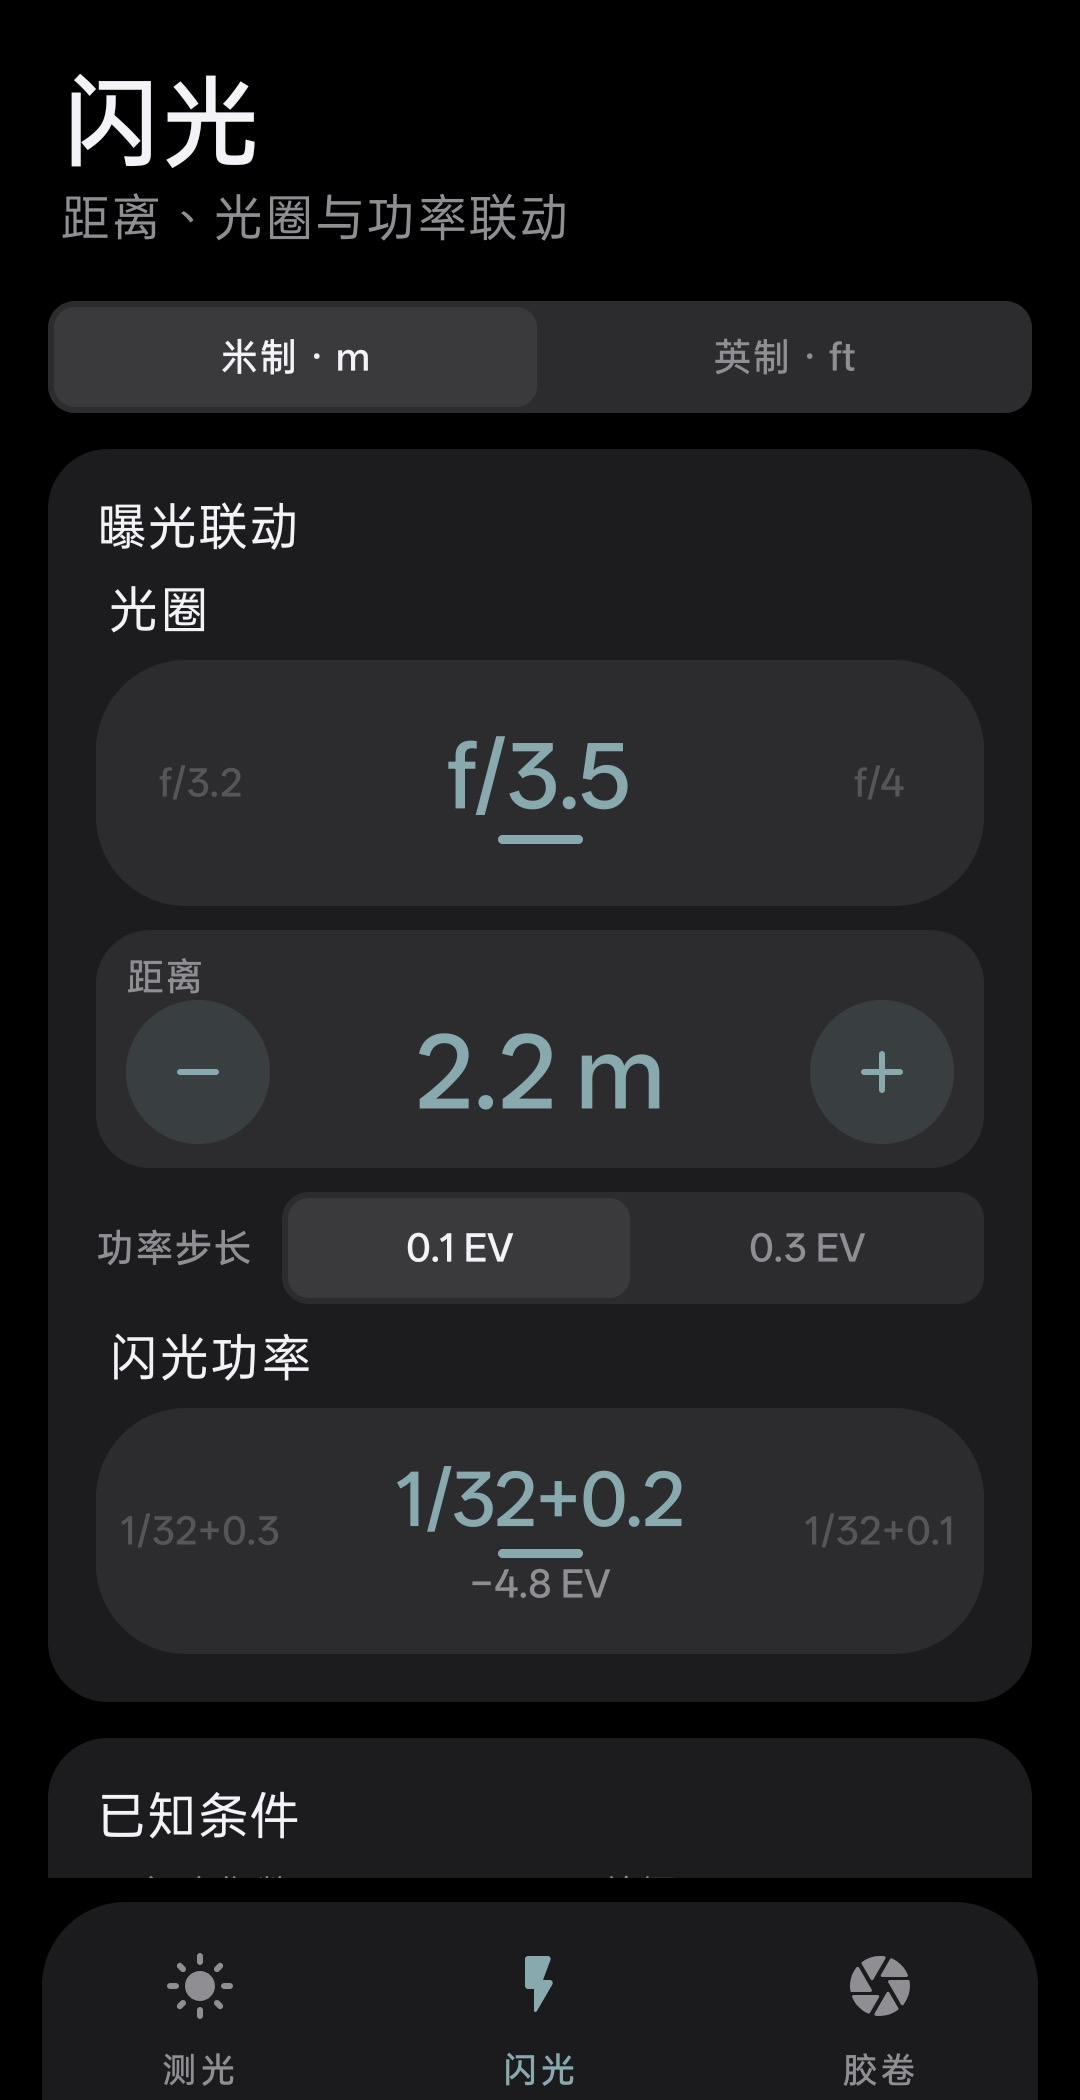
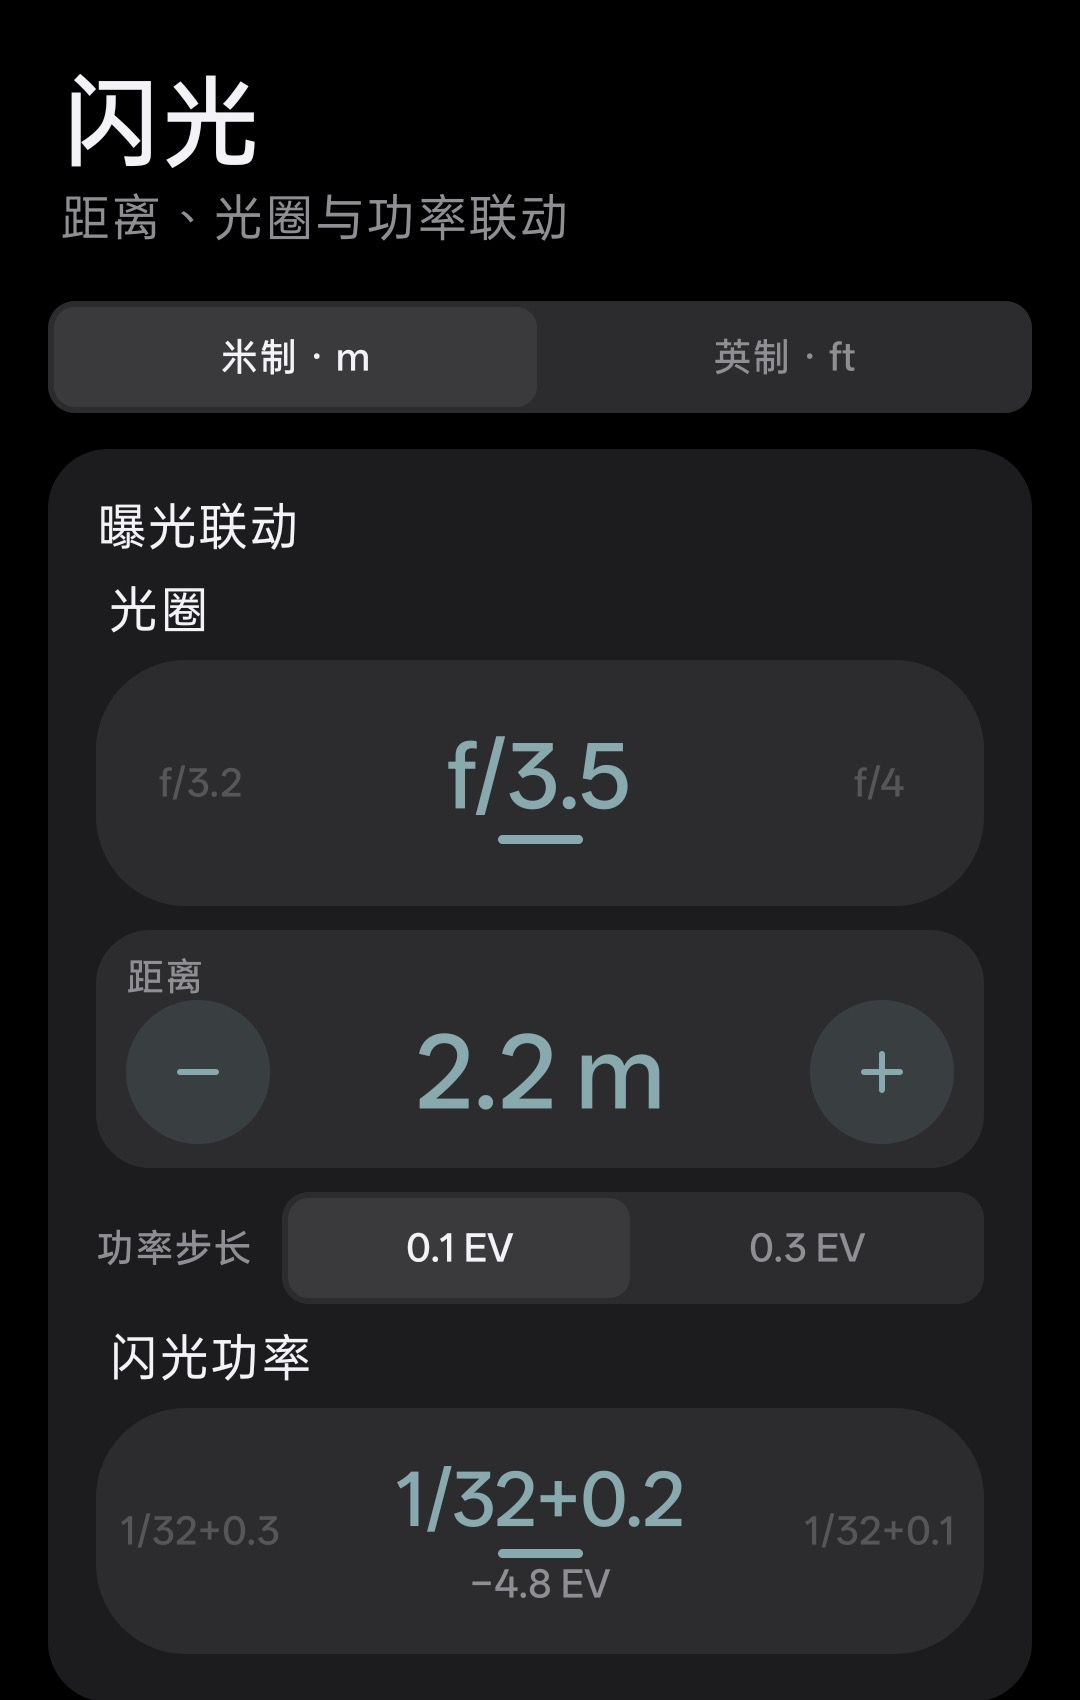
Enlarge upright core workflow screens

diff --git a/styles.css b/styles.css
@@ -73,8 +73,8 @@ h1 em, h2 span, .download-section em { font-style: normal; color: var(--accent);
 .stage-corner-br { right: 18px; bottom: 18px; border-width: 0 2px 2px 0; }
 .stage-label { color: #b8beb3; font-size: 9px; }
 .stage-label span { color: var(--accent); margin-left: 14px; }
-.meter-console-real { position: absolute; z-index: 1; top: 67px; left: 27%; width: 43%; padding: 8px; background: #0d1110; box-shadow: 12px 15px 0 rgba(0, 0, 0, .28); transform: rotate(-3deg); transition: transform .3s ease, box-shadow .3s ease; }
-.meter-console-real:hover { transform: rotate(0deg) translateY(-8px); box-shadow: 15px 20px 0 rgba(0, 0, 0, .24); }
+.meter-console-real { position: absolute; z-index: 1; top: 67px; left: 27%; width: 43%; padding: 8px; background: #0d1110; box-shadow: 12px 15px 0 rgba(0, 0, 0, .28); transition: transform .3s ease, box-shadow .3s ease; }
+.meter-console-real:hover { transform: translateY(-8px); box-shadow: 15px 20px 0 rgba(0, 0, 0, .24); }
 .meter-console-real img { display: block; width: 100%; height: auto; }
 .meter-console-real span { position: absolute; right: -14px; bottom: -25px; color: var(--accent); font: 8px var(--display); letter-spacing: .08em; white-space: nowrap; }
 .console-top, .display-top, .display-result, .console-controls { display: flex; align-items: center; justify-content: space-between; }
@@ -129,8 +129,8 @@ h1 em, h2 span, .download-section em { font-style: normal; color: var(--accent);
 .workflow-copy p { max-width: 365px; color: #a8b0a6; line-height: 1.85; font-size: 14px; margin: 24px 0 31px; }
 .workflow-copy .text-link { color: var(--paper); border-color: var(--paper); }
 .workflow-copy .text-link:hover { color: var(--accent); border-color: var(--accent); }
-.workflow-visual { position: relative; min-height: 330px; aspect-ratio: 1.25; max-width: 530px; justify-self: end; overflow: hidden; display: grid; place-items: center; padding: 18px; border: 1px solid rgba(240,236,226,.16); background: #111614; }
-.workflow-screen { display: block; width: auto; height: 100%; max-width: 88%; max-height: 300px; object-fit: contain; box-shadow: 12px 14px 0 rgba(0, 0, 0, .24); transition: transform .3s ease; }
+.workflow-visual { position: relative; min-height: 400px; aspect-ratio: .82; max-width: 400px; justify-self: end; overflow: hidden; display: grid; place-items: center; padding: 18px; border: 1px solid rgba(240,236,226,.16); background: #111614; }
+.workflow-screen { display: block; width: auto; height: 100%; max-width: 92%; max-height: 370px; object-fit: contain; box-shadow: 12px 14px 0 rgba(0, 0, 0, .24); transition: transform .3s ease; }
 .workflow-visual:hover .workflow-screen { transform: translateY(-6px); }
 .workflow-screen-label { position: absolute; right: 18px; bottom: 15px; color: var(--accent); font: 8px var(--display); letter-spacing: .08em; white-space: nowrap; }
 .workflow-bottom { border-top: 1px solid var(--line-dark); padding-top: 18px; color: #899188; font: 8px var(--display); letter-spacing: .07em; }
@@ -172,7 +172,7 @@ h1 em, h2 span, .download-section em { font-style: normal; color: var(--accent);
   .mobile-nav { position: absolute; left: 0; right: 0; top: 73px; display: grid; gap: 0; max-height: 0; overflow: hidden; background: var(--paper); border-bottom: 1px solid transparent; transition: max-height .35s ease, border-color .35s ease; }.mobile-nav.is-open { max-height: 240px; border-color: var(--line); }.mobile-nav a { padding: 17px 0; border-top: 1px solid var(--line); font: 11px var(--display); letter-spacing: .06em; text-transform: uppercase; }
   .hero { min-height: 0; padding-block: 68px 82px; }.hero h1 { font-size: clamp(54px, 16vw, 82px); }.hero-lede { font-size: 15px; }.hero-facts { margin-top: 48px; gap: 18px 24px; }.hero-facts div { min-width: 105px; }
   .hero-stage { min-height: 465px; padding: 24px; clip-path: polygon(0 0, 91% 0, 100% 8%, 100% 100%, 8% 100%, 0 92%); }.meter-console-real { top: 90px; left: 24%; width: 52%; }.meter-console-real span { right: -9px; bottom: -22px; }.stage-note { bottom: 43px; }.note-b { display: none; }
-  .workflow-section { padding-bottom: 110px; }.workflow-header { display: block; margin-bottom: 35px; }.workflow-header h2 { margin: 24px 0; }.workflow-header p { justify-self: auto; }.workflow-console { grid-template-columns: 1fr; box-shadow: 8px 9px 0 #d8d1c2; }.console-rail { display: grid; grid-template-columns: repeat(4, 1fr); padding: 0; border-right: 0; border-bottom: 1px solid var(--line-dark); }.rail-title, .rail-bottom { display: none; }.workflow-tab { display: block; padding: 16px 9px; border-left: 0; border-bottom: 3px solid transparent; }.workflow-tab small { display: block; }.workflow-tab b { display: block; font-size: 13px; margin-top: 5px; }.workflow-tab:hover, .workflow-tab.is-active { border-left: 0; border-bottom-color: var(--accent); }.workflow-main { padding: 25px 20px 20px; }.workflow-main-top { align-items: flex-start; }.workflow-state { text-align: right; }.workflow-content { display: flex; flex-direction: column; align-items: stretch; gap: 34px; padding-block: 38px; }.workflow-copy h3 { font-size: 42px; }.workflow-copy p { font-size: 13px; margin-block: 19px 24px; }.workflow-visual { width: 100%; min-height: 250px; justify-self: auto; }.workflow-screen { max-height: 285px; }.workflow-bottom { align-items: flex-start; line-height: 1.6; }.workflow-bottom span:last-child { text-align: right; max-width: 100px; }
+  .workflow-section { padding-bottom: 110px; }.workflow-header { display: block; margin-bottom: 35px; }.workflow-header h2 { margin: 24px 0; }.workflow-header p { justify-self: auto; }.workflow-console { grid-template-columns: 1fr; box-shadow: 8px 9px 0 #d8d1c2; }.console-rail { display: grid; grid-template-columns: repeat(4, 1fr); padding: 0; border-right: 0; border-bottom: 1px solid var(--line-dark); }.rail-title, .rail-bottom { display: none; }.workflow-tab { display: block; padding: 16px 9px; border-left: 0; border-bottom: 3px solid transparent; }.workflow-tab small { display: block; }.workflow-tab b { display: block; font-size: 13px; margin-top: 5px; }.workflow-tab:hover, .workflow-tab.is-active { border-left: 0; border-bottom-color: var(--accent); }.workflow-main { padding: 25px 20px 20px; }.workflow-main-top { align-items: flex-start; }.workflow-state { text-align: right; }.workflow-content { display: flex; flex-direction: column; align-items: stretch; gap: 34px; padding-block: 38px; }.workflow-copy h3 { font-size: 42px; }.workflow-copy p { font-size: 13px; margin-block: 19px 24px; }.workflow-visual { width: 100%; min-height: 360px; max-width: none; justify-self: auto; }.workflow-screen { max-height: 335px; }.workflow-bottom { align-items: flex-start; line-height: 1.6; }.workflow-bottom span:last-child { text-align: right; max-width: 100px; }
   .privacy-section { padding-bottom: 110px; }.privacy-plate { display: block; padding: 50px 29px; clip-path: polygon(0 0, 95% 0, 100% 8%, 100% 100%, 5% 100%, 0 92%); }.privacy-copy h2 { font-size: 48px; }.privacy-copy p { font-size: 13px; }.privacy-list { margin-top: 47px; }.privacy-list div { padding-block: 16px; }
   .download-section { padding-bottom: 115px; }.download-section h2 { font-size: clamp(50px, 15vw, 78px); }.footer { display: block; padding-block: 28px; }.footer p { margin: 22px 0; }.footer-links { justify-content: flex-start; flex-wrap: wrap; gap: 12px 18px; }
 }